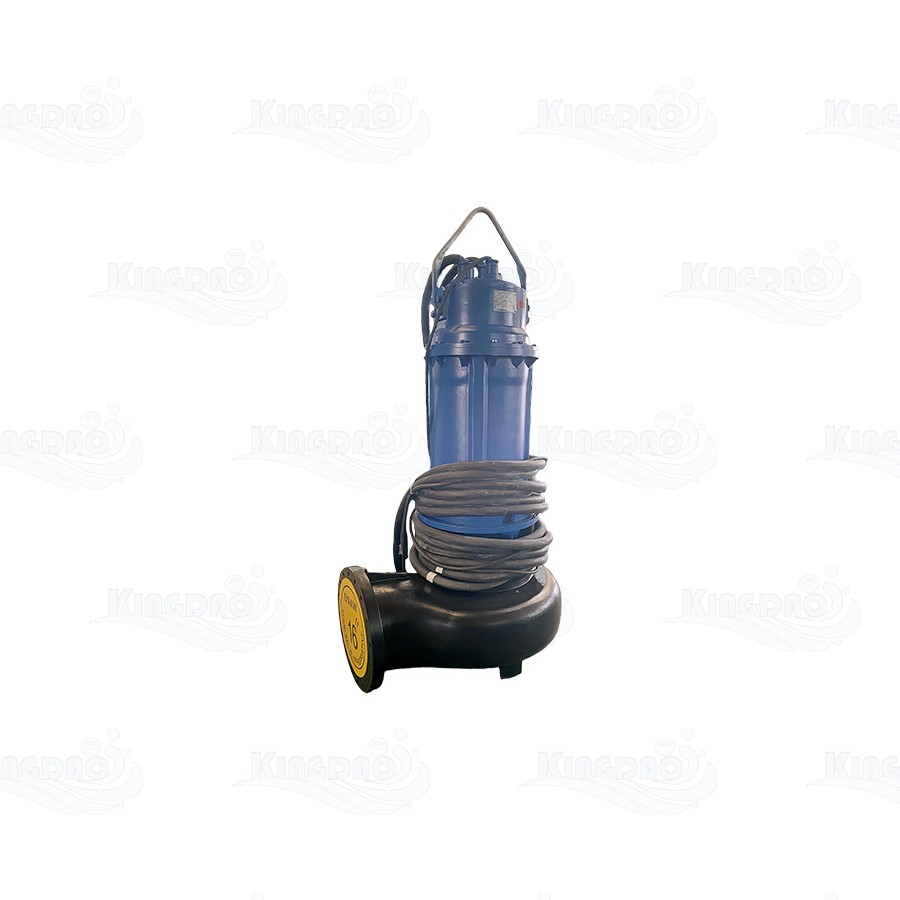
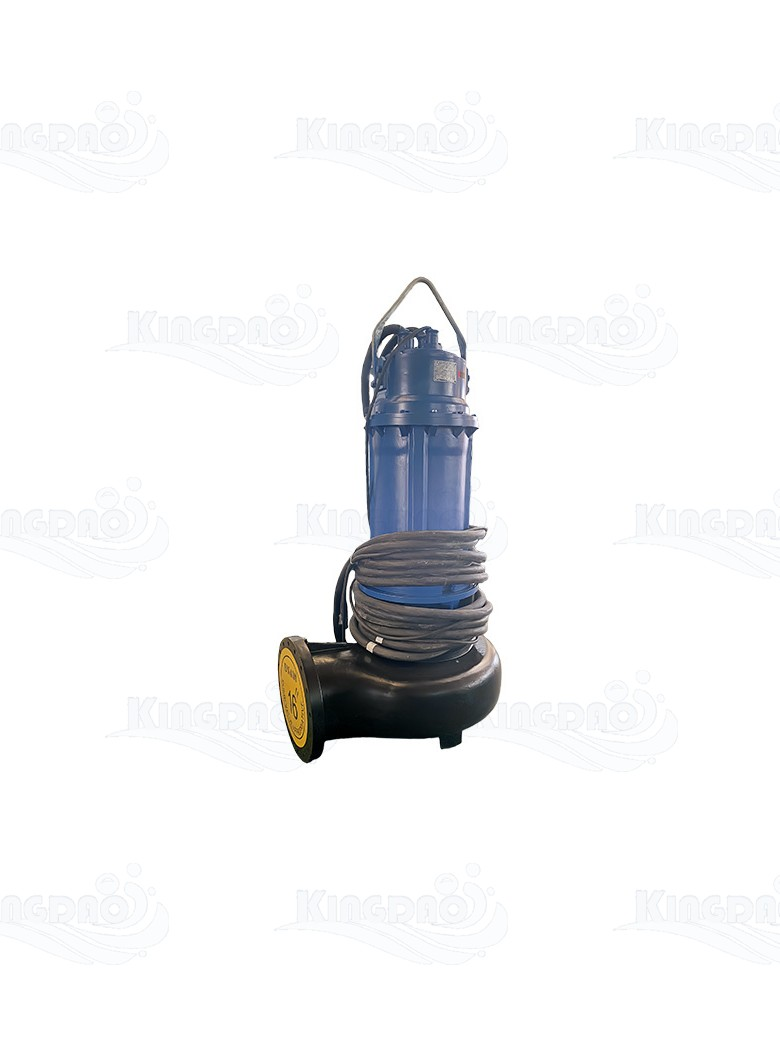
潜水泵图改3:4竖幅(立式泵占满竖框),四张统一白底+16%水印

Changed region(s): [[0.3385, 0.2178, 0.6462, 0.7778]]

diff --git a/products/submersible-pumps.html b/products/submersible-pumps.html
@@ -37,13 +37,13 @@
     <h2>What the pump looks like.</h2>
     <p class="lead">Four frames from the same range — vortex impeller, side discharge, standard frame and the cutter option.</p>
   </div>
-  <div class="img-grid" style="grid-template-columns:repeat(4,1fr);gap:20px">
+  <div class="img-grid" style="grid-template-columns:repeat(4,1fr);gap:20px;align-items:start">
     <figure><img src="../images/products/pump-wq-standard.jpg" alt="WQ submersible sewage pump, vortex impeller">
       <figcaption>WQ submersible sewage pump — non-clog vortex impeller, DN50–DN500</figcaption></figure>
     <figure><img src="../images/products/pump-wq-side.jpg" alt="WQ pump with side discharge volute">
       <figcaption>WQ range, side discharge — cast-iron volute, deeper basins and higher heads</figcaption></figure>
-    <figure><img src="../images/products/pump-wq-series.jpg" alt="WQ series pump, guide-rail installation">
-      <figcaption>WQ series — guide-rail or free-standing installation, wet or dry well</figcaption></figure>
+    <figure><img src="../images/products/pump-wet-well.jpg" alt="Sewage pump with discharge bend, wet-well installation">
+      <figcaption>Wet-well installation — discharge bend, pump lifts out on its own rails</figcaption></figure>
     <figure><img src="../images/products/pump-cutter.jpg" alt="Cutter pump for fibrous solids">
       <figcaption>Cutter option — hardened cutter ring for fibrous solids and wipes</figcaption></figure>
   </div>
